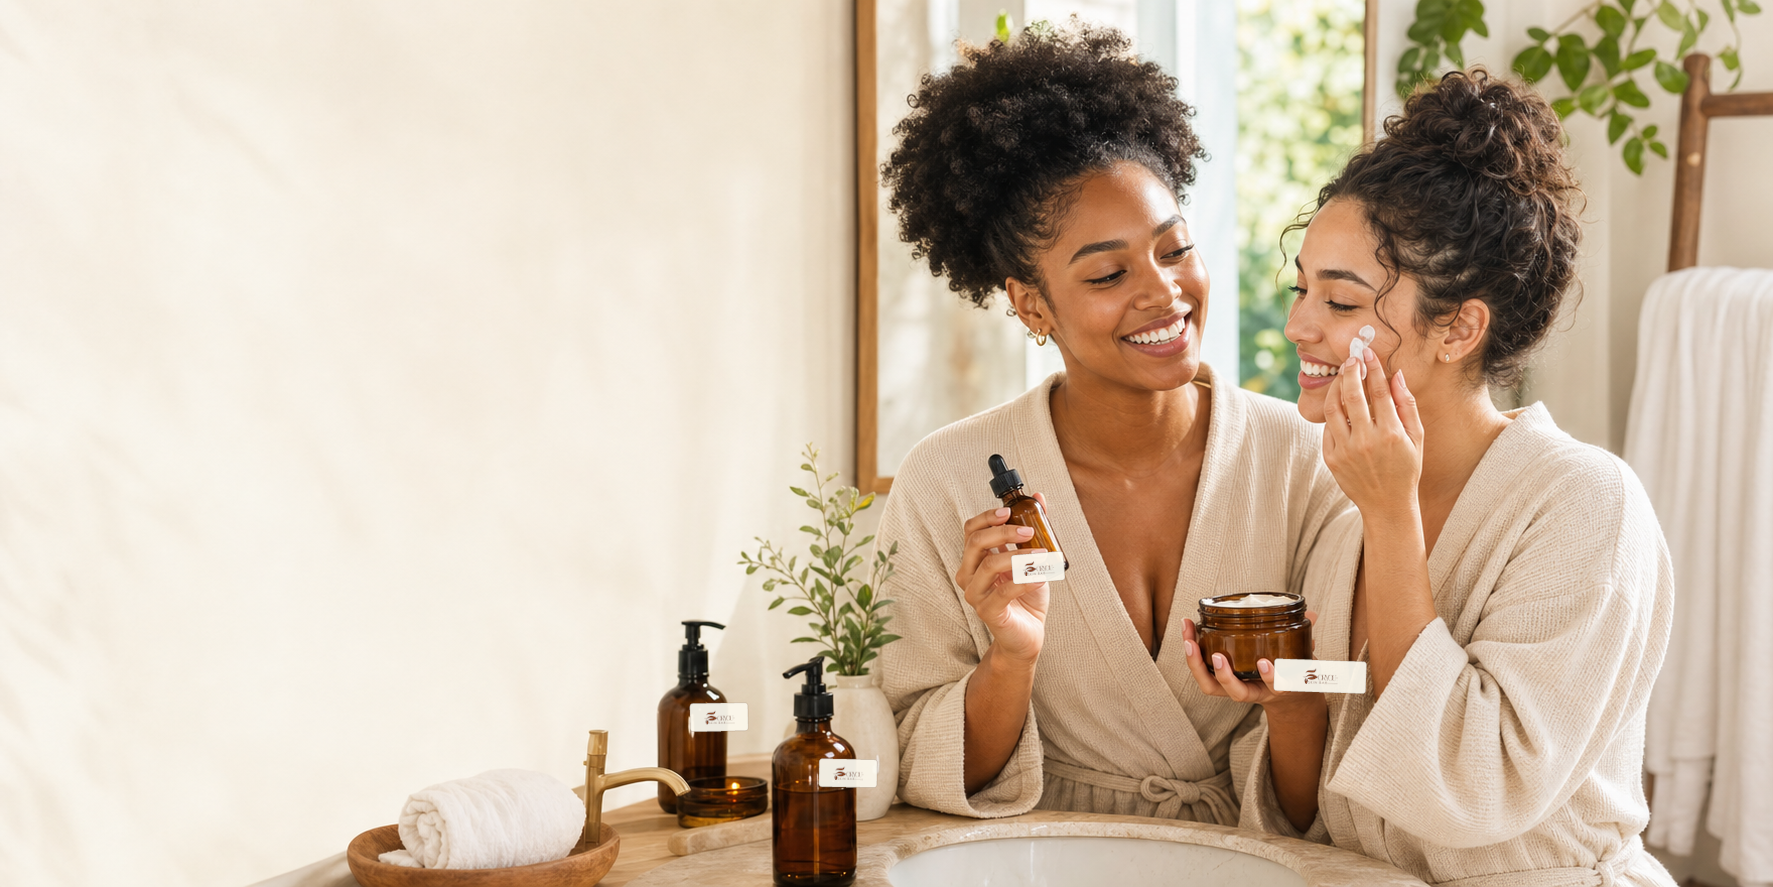
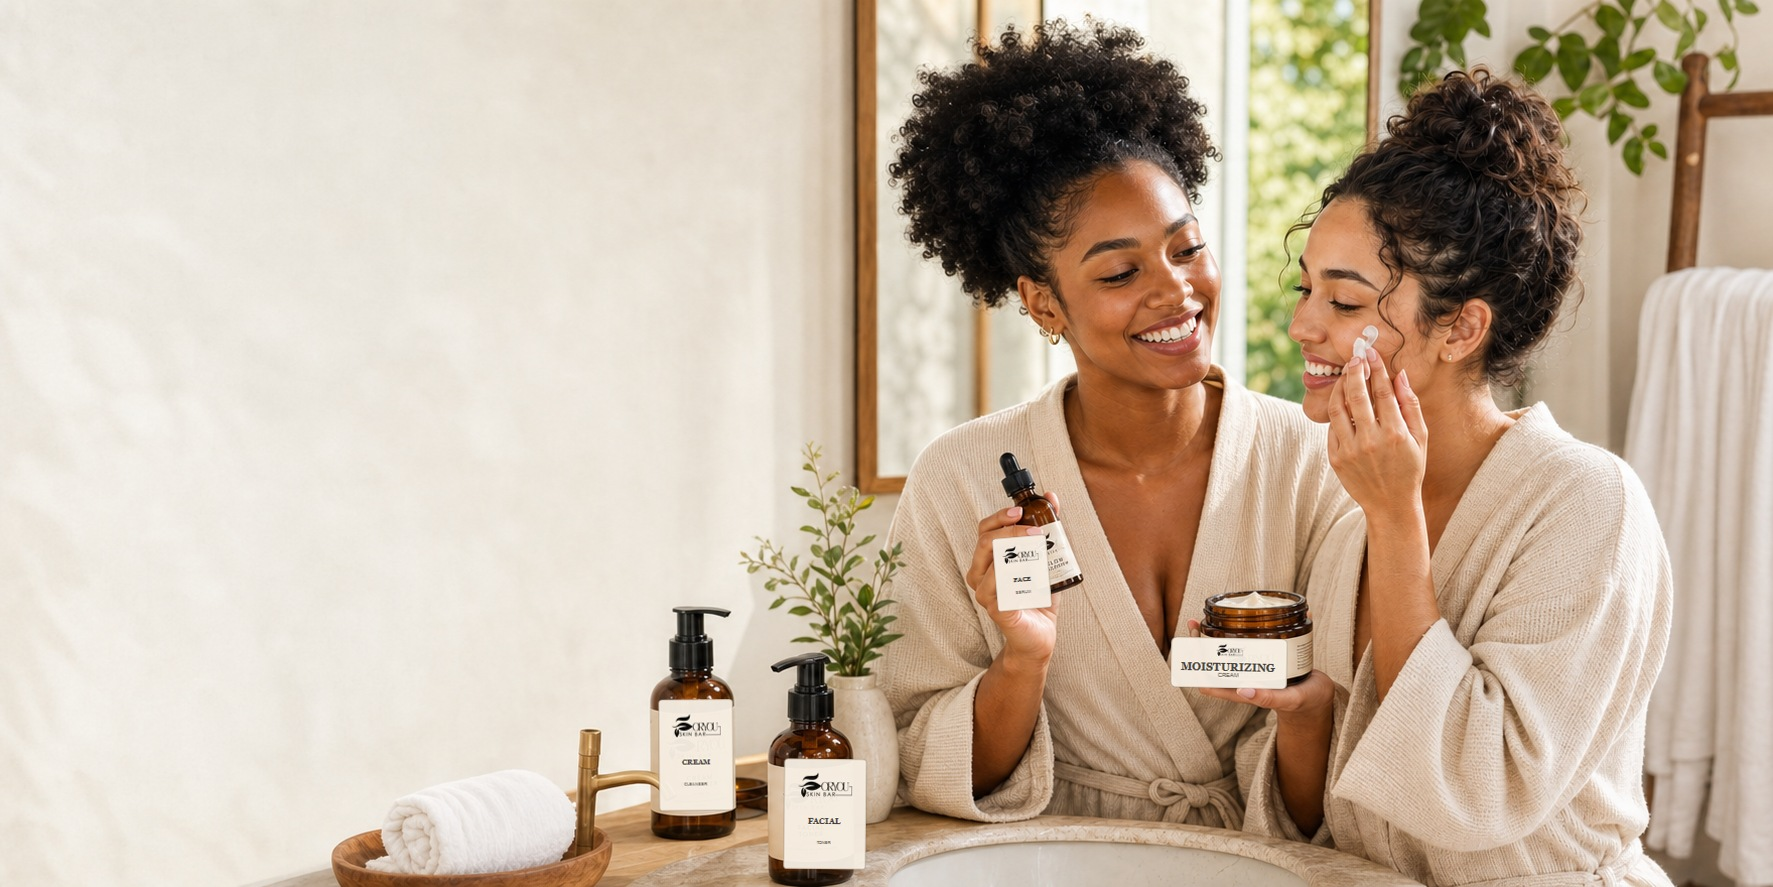
Regenerate branded homepage hero image

Changed region(s): [[0.1551, 0.0, 1.0, 1.0], [0.9927, 0.9741, 1.0, 1.0]]

diff --git a/index.html b/index.html
@@ -52,7 +52,7 @@
   </style>
   <link href="https://fonts.googleapis.com/css2?family=Cormorant+Garamond:wght@400;500;600;700&family=Inter:opsz,wght@14..32,300;14..32,400;14..32,500;14..32,600;14..32,700&display=swap" rel="stylesheet">
   <link rel="stylesheet" href="https://cdnjs.cloudflare.com/ajax/libs/font-awesome/6.0.0-beta3/css/all.min.css">
-  <link rel="stylesheet" href="css/styles.css?v=welcome-screen-4">
+  <link rel="stylesheet" href="css/styles.css?v=welcome-screen-5">
   <script src="https://cdn.tailwindcss.com?plugins=typography"></script>  <script>
     tailwind.config = {
       theme: {
@@ -116,7 +116,7 @@
     }
   }
   </script>
-  <link rel="stylesheet" href="css/brand-theme.css?v=hero-branded-1">
+  <link rel="stylesheet" href="css/brand-theme.css?v=hero-branded-2">
   <style id="homepage-trust-overrides">
     .home-concern-grid {
       display: grid !important;

diff --git a/css/styles.css b/css/styles.css
@@ -1430,7 +1430,7 @@ body.welcome-screen-active {
 .home-social-proof {
   background:
     linear-gradient(90deg, rgba(248, 245, 239, 0.96), rgba(248, 245, 239, 0.82)),
-    url("../assets/brand/welcome-lifestyle-branded-bg.jpg") right center / cover no-repeat;
+    url("../assets/brand/welcome-lifestyle-branded-bg.jpg?v=regenerated-1") right center / cover no-repeat;
 }
 
 .home-customer-img {
@@ -1613,7 +1613,7 @@ body.welcome-screen-active {
 }
 
 .bliss-image-card {
-  background-image: url("../assets/brand/welcome-lifestyle-branded-bg.jpg");
+  background-image: url("../assets/brand/welcome-lifestyle-branded-bg.jpg?v=regenerated-1");
   background-position: 62% center;
   filter: none;
   transform: none;

diff --git a/css/brand-theme.css b/css/brand-theme.css
@@ -635,7 +635,7 @@ footer .text-amber-700 {
 }
 
 .bliss-image-card {
-  background-image: url("../assets/brand/welcome-lifestyle-branded-bg.jpg") !important;
+  background-image: url("../assets/brand/welcome-lifestyle-branded-bg.jpg?v=regenerated-1") !important;
   background-position: 62% center !important;
   filter: none !important;
   transform: none !important;
